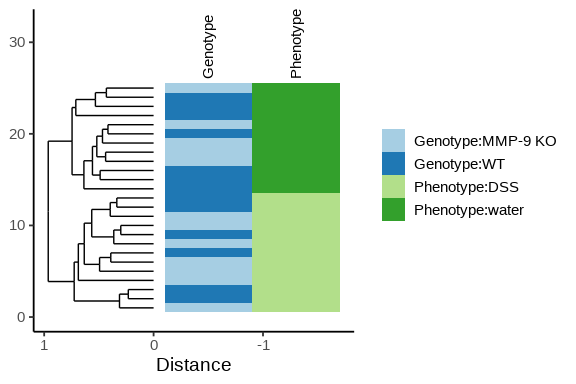
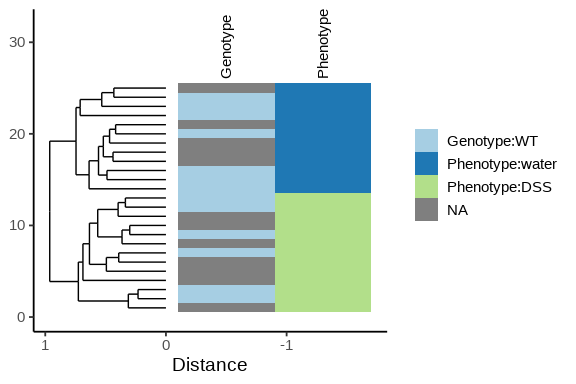
updated annotated_dendrogram funciton

diff --git a/README.md b/README.md
@@ -727,7 +727,9 @@ annotated_dendrogram(mydist, mdata, 'sampleID')
 ``` r
 # custom colours
 col_geno <- RColorBrewer::brewer.pal(9, "Paired")[1:2]
+names(col_geno) <- c('Genotype:WT','Genotype:KO')
 col_phen <- RColorBrewer::brewer.pal(9, "Paired")[3:4]
+names(col_phen) <- c('Phenotype:water','Phenotype:DSS')
 annotated_dendrogram(mydist, mdata, 'sampleID', pal=c(col_geno, col_phen))
 ```
 

diff --git a/vignettes/OCMSutility.md b/vignettes/OCMSutility.md
@@ -727,7 +727,9 @@ annotated_dendrogram(mydist, mdata, 'sampleID')
 ``` r
 # custom colours
 col_geno <- RColorBrewer::brewer.pal(9, "Paired")[1:2]
+names(col_geno) <- c('Genotype:WT','Genotype:KO')
 col_phen <- RColorBrewer::brewer.pal(9, "Paired")[3:4]
+names(col_phen) <- c('Phenotype:water','Phenotype:DSS')
 annotated_dendrogram(mydist, mdata, 'sampleID', pal=c(col_geno, col_phen))
 ```
 
